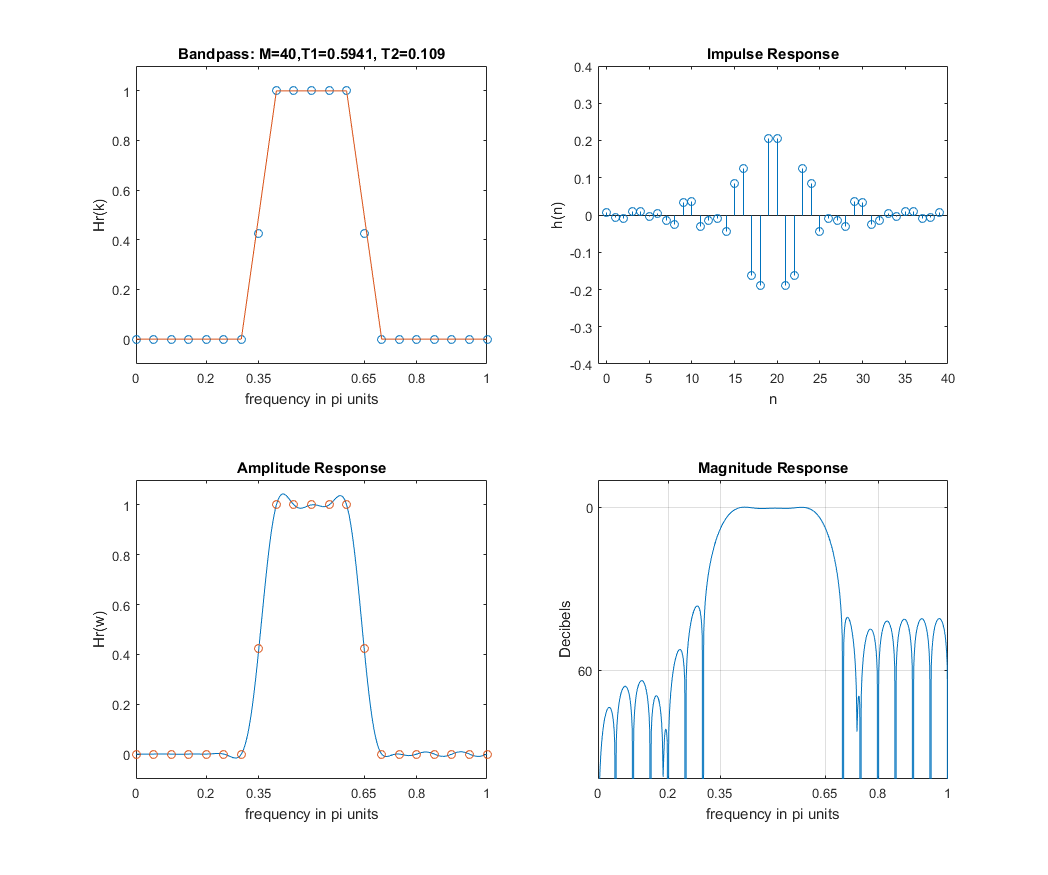
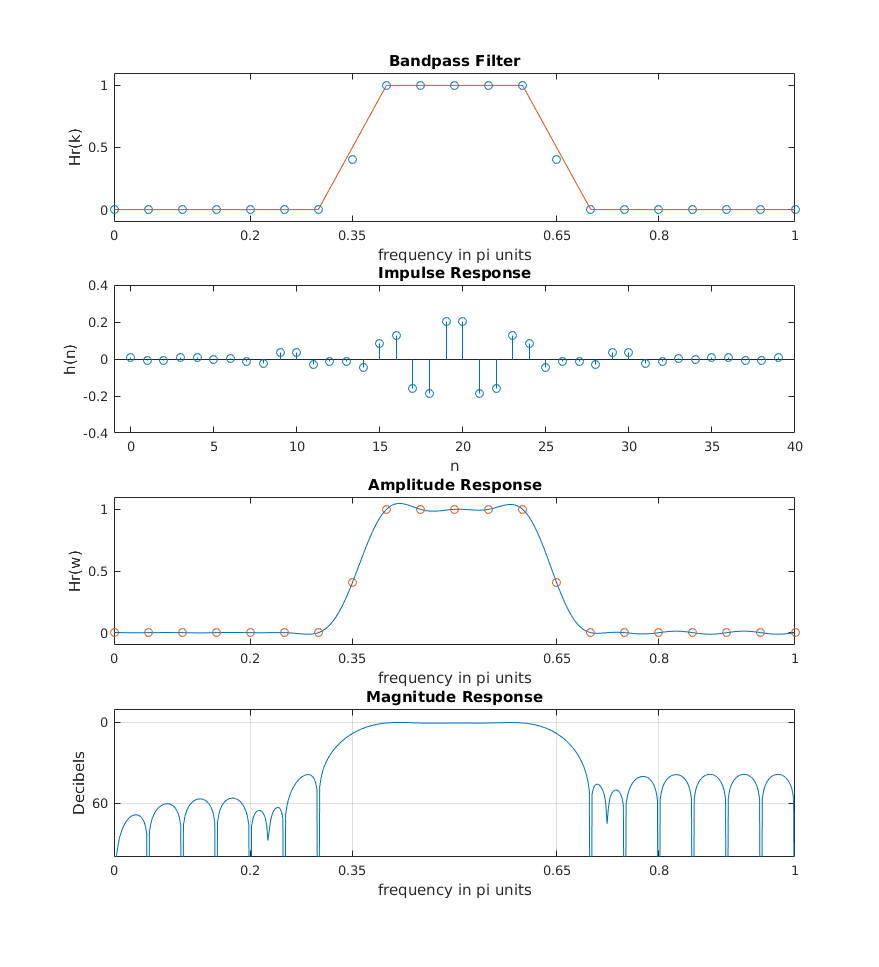
fixed shit

diff --git a/hw5/q1.m b/hw5/q1.m
@@ -8,7 +8,7 @@ BW = (up - lp)/Fs +1;
 M = ceil(2*pi/(Fs));
 alpha = (M-1)/2; 
 l = 0:M-1; wl = (2*pi/M)*l;
-T1 = 0.4245;
+T1 = 0.405;
 
 Hrs = [zeros(1,ls/Fs+1), T1, ones(1, BW), T1];
 Hrs = repmat([Hrs, zeros(1, (M/2 - length(Hrs)))], [1,2]);
@@ -25,23 +25,24 @@ H = Hrs.*exp(1i*angH); h = real(ifft(H,M));
 delta_w = 2*pi/1000;
 Rp = -min(db(lp/delta_w + 1:up/delta_w)) % Actual Passband Ripple
 As = -round(max(db(us/delta_w+1:501))) % Min Stopband Attenuation
+
 %% Plot 
 % subplot(1,1,1)
-subplot(2,2,1);plot(wl(1:M/2 +1)/pi,Hrs(1:M/2 +1),'o',wdl,Hdr); 
-axis([0,1,-0.1,1.1]); title('Bandpass: M=40,T1=0.5941, T2=0.109')
+subplot(4,1,1);plot(wl(1:M/2 +1)/pi,Hrs(1:M/2 +1),'o',wdl,Hdr); 
+axis([0,1,-0.1,1.1]); title('Bandpass Filter')
 xlabel('frequency in pi units'); ylabel('Hr(k)')
 set(gca,'XTickMode','manual','XTick',[0,0.2,0.35,0.65,0.8,1])
 % set(gca,'YTickMode','manual','YTick',[0,0.59,0.109,1]); grid
 
-subplot(2,2,2); stem(l,h); axis([-1,M,-0.4,0.4])
+subplot(4,1,2); stem(l,h); axis([-1,M,-0.4,0.4])
 title('Impulse Response'); xlabel('n'); ylabel('h(n)');
-subplot(2,2,3); plot(ww/pi,Hr,wl(1:M/2 +1)/pi,Hrs(1:M/2 +1),'o');
+subplot(4,1,3); plot(ww/pi,Hr,wl(1:M/2 +1)/pi,Hrs(1:M/2 +1),'o');
 axis([0,1,-0.1,1.1]); title('Amplitude Response')
 xlabel('frequency in pi units'); ylabel('Hr(w)')
 set(gca,'XTickMode','manual','XTick',[0,0.2,0.35,0.65,0.8,1])
 % set(gca,'YTickMode','manual','YTick',[0,0.59,0.109,1]); grid
 
-subplot(2,2,4);plot(w/pi,db); axis([0,1,-100,10]); grid
+subplot(4,1,4);plot(w/pi,db); axis([0,1,-100,10]); grid
 title('Magnitude Response'); xlabel('frequency in pi units');
 ylabel('Decibels');
 set(gca,'XTickMode','Manual','XTick',[0,0.2,0.35,0.65,0.8,1]);

diff --git a/hw5/q2.m b/hw5/q2.m
@@ -1,0 +1,30 @@
+%% Question 2
+
+ws1=0.8*pi; wp1=0.4*pi; wp2=0.5*pi; wp3=0.7*pi;
+M = 40; alpha = (M-1)/2; l = 0:M-1; wl = (2*pi/M)*l;
+ d1 = 0.1; d2 = 0.05;
+[Rp,As] = delta2db(d1,d2);
+weights = [d2/d1 d2/d1 1];
+delta_f = min(abs(wp1-wp2)/(2*pi), abs(wp3-ws1)/(2*pi));
+M = ceil((-20*log10(sqrt(d1*d2))-13)/(14.6*delta_f)+1);
+f = [0 wp1 wp2 wp3 ws1 1*pi]./pi;
+m = [0.45 0.45 1 1 0 0];
+h = remez(M-1,f,m,weights);
+l = 0:M-1;
+[db,mag,pha,grd,w] = freqz_m(h,1);
+[Hr,ww,a,L] = hr_type1(h);
+delta_w = 2*pi/1000;
+M
+
+%% Plots
+subplot(4,1,1);plot(f,m); 
+axis([0,1,-0.1,1.1]); title('Multi Band Filter');
+xlabel('frequency in pi units'); ylabel('Hr(k)'); grid;
+subplot(4,1,2); stem(l,h); axis([-1,M,-0.3,0.8])
+title('Impulse Response'); xlabel('n'); ylabel('h(n)');
+subplot(4,1,3); plot(ww/pi,Hr);
+axis([0,1,-0.1,1.1]); title('Amplitude Response');
+xlabel('frequency in pi units'); ylabel('Hr(w)'); grid;
+subplot(4,1,4);plot(w/pi,db); axis([0,1,-100,10]); grid;
+title('Magnitude Response'); xlabel('frequency in pi units');
+ylabel('Decibels');

diff --git a/hw5/q4.m b/hw5/q4.m
@@ -2,17 +2,18 @@
 
 
 Rp=1.1; As=51;
-wp1 = 0.5; ws1 = 0.56; ws2 = 0.82; wp2 = 0.88;
+wp1 = 0.5*pi; ws1 = 0.56*pi; ws2 = 0.82*pi; wp2 = 0.88*pi;
 [d1,d2] = db2delta(Rp,As);
-d_max = max(d1,d2); d_min = min(d1,d2);
 weights = [d2/d1 1 d2/d1];
-M = length(h); l = 0:M-1;
-f = [0 wp1 ws1 ws2 wp2 1];
-a = [1 1 0 0 1 1];
+delta_f = min(abs(ws2-wp2)/(2*pi), abs(wp1-ws1)/(2*pi));
+M = ceil((-20*log10(sqrt(d1*d2))-13)/(14.6*delta_f)+1);
+l = 0:M-1;
+f = [0 wp1 ws1 ws2 wp2 1*pi]./pi;
+m = [1 1 0 0 1 1];
 
 % Create Filter
-b = firpm(M-1,f,a, weights);
-[db,mag,pha,grd,w] = freqz_m(b,1);
+h = firpm(M-1,f,m, weights);
+[db,mag,pha,grd,w] = freqz_m(h,1);
 [Hr,ww,a,L] = hr_type1(h);
 
 % Check specs
